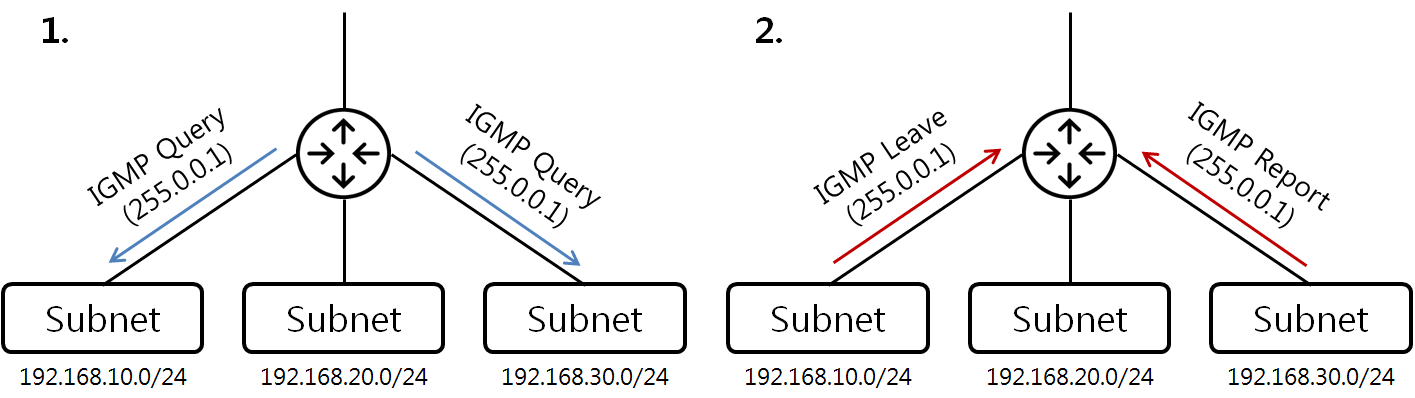
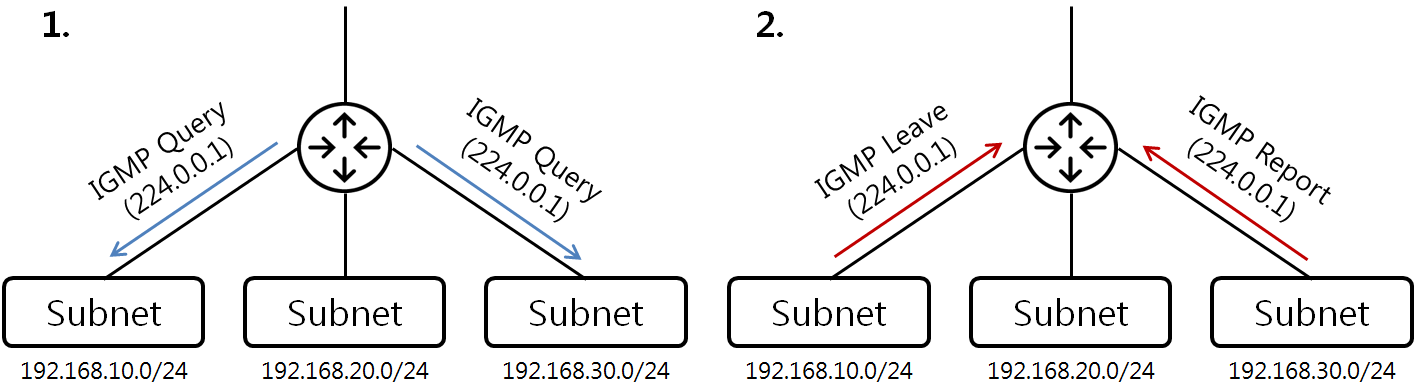
Add Network Tunneling

diff --git a/_docs/theory_analysis/Multicast.md b/_docs/theory_analysis/Multicast.md
@@ -17,7 +17,7 @@ Network Packet 전송 방법은 크게 Unicast, Broadcast, Multicast 3가지 방
 
 ![]({{site.baseurl}}/images/theory_analysis/Multicast/Multicast_Address.PNG){: width="600px"}
 
-Multicast는 일반적으로 L3는 IP를 이용하고 L4는 UDP를 이용한다. 위의 그림은 Multicast Packet의 IP Address와 Ethernet Address를 나타내고 있다. Multicast는 IP Address로 **Class D**를 이용한다. Class D는 앞의 4비트가 **1110**으로 시작하는 주소를 의미한다. Multicast IP는 하나의 **Multicast Group**을 나타낸다. Packet의 Dest IP가 Multicast IP인 255.0.0.1이라면 255.0.0.1 Group에 소속되어 있는 Node들만 해당 Packet을 받게 된다.
+Multicast는 일반적으로 L3는 IP를 이용하고 L4는 UDP를 이용한다. 위의 그림은 Multicast Packet의 IP Address와 Ethernet Address를 나타내고 있다. Multicast는 IP Address로 **Class D**를 이용한다. Class D는 앞의 4비트가 **1110**으로 시작하는 주소를 의미한다. Multicast IP는 하나의 **Multicast Group**을 나타낸다. Packet의 Dest IP가 Multicast IP인 224.0.0.1이라면 224.0.0.1 Group에 소속되어 있는 Node들만 해당 Packet을 받게 된다.
 
 Ethernet Address는 IP Address를 기반으로 생성한다. Ethernet Address는 **0000 0001 0000 0000 0101 1110 0**으로 시작하며 나머지 23bit는 IP Address의 뒷부분 23bit으로 채워 생성한다. 위 그림의 빨간 부분 처럼 5bit가 Ethernet Address를 만드는데 이용되지 않기 때문에 하나의 Ethernet Address가 여러개의 IP Address를 나타낼 수 있다.
 
@@ -29,7 +29,7 @@ IGMP는 Router와 Subnet사이에서 Multicast Group 정보를 주고 받기 위
 
 ![]({{site.baseurl}}/images/theory_analysis/Multicast/IGMP_Report.PNG)
 
-위의 그림은 IGMP Protocol의 Report를 나타내고 있다. Subnet에 속해 있는 특정 Node가 255.0.0.1 Multicast Group에 소속되고 싶으면 Node는 Router에게 IGMP Report Packet을 전송한다. Router는 Dest IP가 255.0.0.1인 Multicast Packet을 받으면 IGMP Report Packet을 전송한 Node가 있는 Subnet으로 Multicast Packet을 전송한다.
+위의 그림은 IGMP Protocol의 Report를 나타내고 있다. Subnet에 속해 있는 특정 Node가 224.0.0.1 Multicast Group에 소속되고 싶으면 Node는 Router에게 IGMP Report Packet을 전송한다. Router는 Dest IP가 224.0.0.1인 Multicast Packet을 받으면 IGMP Report Packet을 전송한 Node가 있는 Subnet으로 Multicast Packet을 전송한다.
 
 #### 3.2. IGMP Query, Leave
 

diff --git a/_docs/theory_analysis/IPIP_GRE_Tunneling.md b/_docs/theory_analysis/IPIP_GRE_Tunneling.md
@@ -1,0 +1,25 @@
+---
+title: IP-in-IP, GRE Tunneling
+category: Theory, Analysis
+date: 2017-01-14T12:00:00Z
+lastmod: 2017-01-15T12:00:00Z
+comment: true
+adsense: true
+---
+
+Network Tunneling 기법인 IP-in-Ip 기법과 GRE 기법을 분석한다.
+
+### 1. IP-in-IP
+
+![]({{site.baseurl}}/images/theory_analysis/IPIP_GRE_Tunneling/IPIP_Header.PNG){: width="300px"}
+
+![]({{site.baseurl}}/images/theory_analysis/IPIP_GRE_Tunneling/IPIP_Process.PNG){: width="700px"}
+
+### 2. GRE
+
+![]({{site.baseurl}}/images/theory_analysis/IPIP_GRE_Tunneling/GRE_Header.PNG){: width="400px"}
+
+### 3. 참조
+
+* IPIP - [http://cizz.net/lartc/lartc.tunnel.ip-ip.html](http://cizz.net/lartc/lartc.tunnel.ip-ip.html)
+* GRE - [http://cizz.net/lartc/lartc.tunnel.gre.html](http://cizz.net/lartc/lartc.tunnel.gre.html)

diff --git a/index.md b/index.md
@@ -3,7 +3,9 @@ title: Ssup2
 ---
 
 * 가치있는 아키텍트가 되고 싶습니다.
-* supsup5642@naver.com <br> <br>
+* 블로그에 공개된 모든 글과 그림의 저작권은 저에게 있습니다. 참조 시 반드시 출처를 남겨주세요.
+* 잘못된 내용이 있을 경우 저에게 알려주시면 수정하겠습니다. <br> <br>
 
+* Mail - supsup5642@gmail.com
 * LinkedIn - [https://kr.linkedin.com/in/jungsub-shin-933b82119](https://kr.linkedin.com/in/jungsub-shin-933b82119)
 * Naver Blog - [http://blog.naver.com/supsup5642](http://blog.naver.com/supsup5642)
